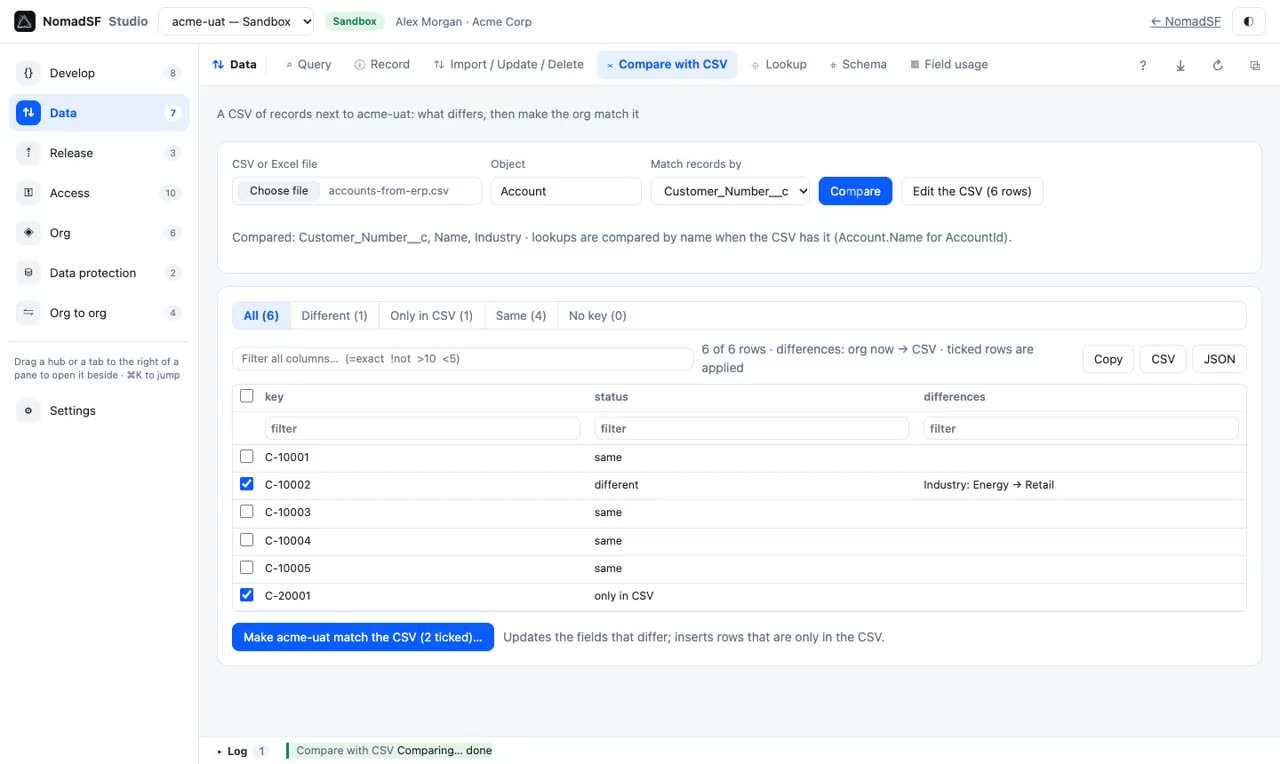
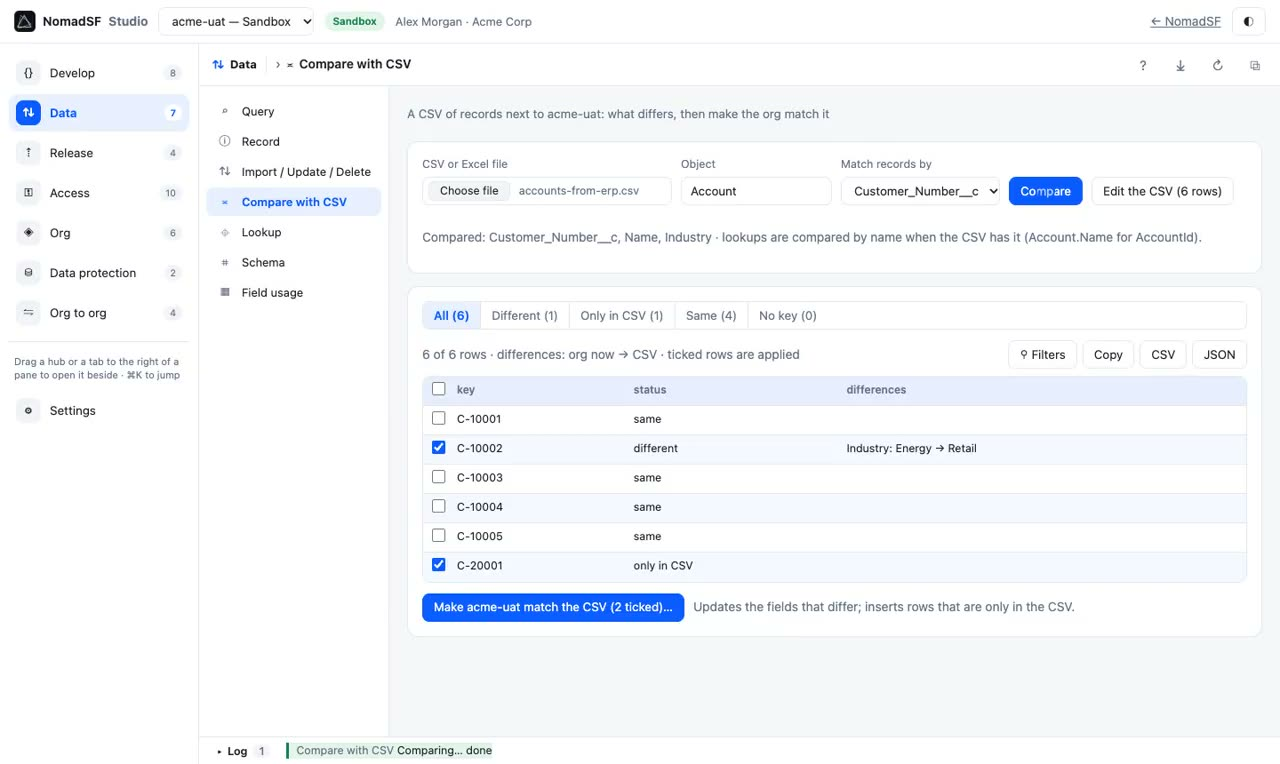
fix(studio): a failed validation says so, and why
The deploy result was read from the first <success> tag, which belongs to a component
in the details: a validation whose tests failed showed "✓ … Failed" and offered Quick
deploy. The deploy's own fields are now read without the details. Code coverage
warnings (a failure with no failed test) are read and shown as their own tab, and the
outcome goes to the Log as one line; progress updates one working line.

diff --git a/nomadsf/packages/ui/src/components/ReleasePanel.tsx b/nomadsf/packages/ui/src/components/ReleasePanel.tsx
@@ -9,7 +9,7 @@ import {
 } from '@nomadsf/core';
 import { StudioContext, type Studio } from '../context';
 import { detectHost, orgFacts } from '../host';
-import { Status } from '../statusLog';
+import { Status, ToolContext, statusLog } from '../statusLog';
 import { askTyped } from './Dialogs';
 import { DataTable, download } from './DataTable';
 import { TableTabs } from './TableTabs';
@@ -125,6 +125,27 @@ export function ReleasePanel(props: ReleasePanelProps) {
 
   const testList = (): string[] => tests.split(/[\s,]+/).filter(Boolean);
 
+  // The outcome is drawn below the buttons; the Log gets it as one line too
+  const tool = useContext(ToolContext);
+  const logOutcome = (result: DeployOutcome, org: string): void => {
+    const failures = result.componentFailures.length + result.testFailures.length + result.coverageWarnings.length;
+    statusLog.add({
+      tool,
+      org,
+      kind: result.success ? 'done' : 'problem',
+      text: `${result.success ? '✓' : '❌'} ${result.checkOnly ? 'Validation' : 'Deploy'} ${result.status} on ${org}${
+        failures
+          ? ` · ${[
+              `${result.componentFailures.length} component error(s)`,
+              `${result.testFailures.length} test failure(s)`,
+              ...result.coverageWarnings.map((w) => `${w.name}: ${w.message}`),
+            ].join(', ')}`
+          : ''
+      }`,
+      source: `release:${result.id}`,
+    });
+  };
+
   const send = async (checkOnly: boolean): Promise<void> => {
     if (!client || !target) return;
     if (level === 'RunSpecifiedTests' && !testList().length) {
@@ -143,7 +164,7 @@ export function ReleasePanel(props: ReleasePanelProps) {
         checkOnly,
         testLevel: level,
         runTests: level === 'RunSpecifiedTests' ? testList() : [],
-        onProgress: (s, done, total) => setStatus(`${checkOnly ? 'Validation' : 'Deploy'} · ${s} · ${done}/${total}`),
+        onProgress: (s, done, total) => setStatus(`${checkOnly ? 'Validation' : 'Deploy'} · ${s} · ${done}/${total}…`),
       });
       studio.logActivity(checkOnly ? 'validate package' : 'deploy package', {
         from,
@@ -154,6 +175,7 @@ export function ReleasePanel(props: ReleasePanelProps) {
       });
       setOutcome(result);
       setStatus('');
+      logOutcome(result, target.label);
       onDone?.(result, target);
     });
   };
@@ -162,7 +184,7 @@ export function ReleasePanel(props: ReleasePanelProps) {
     if (!outcome || !client || !target) return;
     if (!(await confirm(`Quick deploy validation ${outcome.id} to ${target.label}`))) return;
     await run('Quick deploy…', async () => {
-      const result = await quickDeploy(client, outcome.id, { onProgress: (s) => setStatus(`Quick deploy · ${s}`) });
+      const result = await quickDeploy(client, outcome.id, { onProgress: (s) => setStatus(`Quick deploy · ${s}…`) });
       studio.logActivity('quick deploy package', {
         from,
         target: target.label,
@@ -171,6 +193,7 @@ export function ReleasePanel(props: ReleasePanelProps) {
       });
       setOutcome(result);
       setStatus('');
+      logOutcome(result, target.label);
       onDone?.(result, target);
     });
   };
@@ -313,7 +336,9 @@ export function ReleasePanel(props: ReleasePanelProps) {
               </button>
             </div>
           )}
-          {(outcome.componentFailures.length > 0 || outcome.testFailures.length > 0) && (
+          {(outcome.componentFailures.length > 0 ||
+            outcome.testFailures.length > 0 ||
+            outcome.coverageWarnings.length > 0) && (
             <TableTabs
               tabs={[
                 {
@@ -343,8 +368,31 @@ export function ReleasePanel(props: ReleasePanelProps) {
                     />
                   ),
                 },
+                ...(outcome.coverageWarnings.length
+                  ? [
+                      {
+                        id: 'coverage',
+                        label: 'Code coverage',
+                        count: outcome.coverageWarnings.length,
+                        content: (
+                          <DataTable
+                            columns={['name', 'message']}
+                            rows={outcome.coverageWarnings.map((w, i) => ({ ...w, key: i }))}
+                            rowKey="key"
+                            name="coverage-warnings"
+                          />
+                        ),
+                      },
+                    ]
+                  : []),
               ]}
-              initial={outcome.componentFailures.length ? 'components' : 'tests'}
+              initial={
+                outcome.componentFailures.length
+                  ? 'components'
+                  : outcome.testFailures.length || !outcome.coverageWarnings.length
+                  ? 'tests'
+                  : 'coverage'
+              }
             />
           )}
         </div>

diff --git a/nomadsf/packages/core/src/deploy.ts b/nomadsf/packages/core/src/deploy.ts
@@ -31,6 +31,8 @@ export type DeployOutcome = {
   testsRun: number;
   componentFailures: Array<{ type: string; name: string; problem: string; line?: number }>;
   testFailures: Array<{ name: string; method: string; message: string }>;
+  /** Code coverage too low (a validation or deploy fails on it with no failed test). */
+  coverageWarnings: Array<{ name: string; message: string }>;
   errorMessage?: string;
 };
 
@@ -40,14 +42,17 @@ const num = (xml: string, tag: string): number => Number(xmlValue(xml, tag) ?? 0
 export function parseDeployResult(result: string, id: string): DeployOutcome {
   const details = xmlValue(result, 'details') ?? '';
   const runTests = xmlValue(details, 'runTestResult') ?? '';
+  // The deploy's own fields, without the details: each component there has a <success> of its own, and
+  // Salesforce lists the details first (a validation whose tests failed would read as a success)
+  const top = result.replace(/<(?:\w+:)?details(?:\s[^>]*)?>[\s\S]*<\/(?:\w+:)?details>/, '');
   return {
     id,
-    status: xmlValue(result, 'status') ?? 'Unknown',
-    success: xmlValue(result, 'success') === 'true',
-    checkOnly: xmlValue(result, 'checkOnly') === 'true',
-    componentsDeployed: num(result, 'numberComponentsDeployed'),
-    componentsTotal: num(result, 'numberComponentsTotal'),
-    testsRun: num(result, 'numberTestsCompleted') + num(result, 'numberTestErrors'),
+    status: xmlValue(top, 'status') ?? 'Unknown',
+    success: xmlValue(top, 'success') === 'true',
+    checkOnly: xmlValue(top, 'checkOnly') === 'true',
+    componentsDeployed: num(top, 'numberComponentsDeployed'),
+    componentsTotal: num(top, 'numberComponentsTotal'),
+    testsRun: num(top, 'numberTestsCompleted') + num(top, 'numberTestErrors'),
     componentFailures: xmlBlocks(details, 'componentFailures').map((f) => ({
       type: xmlValue(f, 'componentType') ?? '',
       name: xmlValue(f, 'fullName') ?? '',
@@ -59,7 +64,11 @@ export function parseDeployResult(result: string, id: string): DeployOutcome {
       method: xmlValue(f, 'methodName') ?? '',
       message: xmlValue(f, 'message') ?? '',
     })),
-    errorMessage: xmlValue(result, 'errorMessage') || undefined,
+    coverageWarnings: xmlBlocks(runTests, 'codeCoverageWarnings').map((w) => ({
+      name: xmlValue(w, 'name') ?? '',
+      message: xmlValue(w, 'message') ?? '',
+    })),
+    errorMessage: xmlValue(top, 'errorMessage') || undefined,
   };
 }
 

diff --git a/nomadsf/packages/core/test/deploy.test.ts b/nomadsf/packages/core/test/deploy.test.ts
@@ -10,6 +10,7 @@ import {
   deployZip,
   destructiveZip,
   makeZip,
+  parseDeployResult,
   quickDeploy,
   type HttpRequest,
 } from '../src/index.js';
@@ -73,6 +74,28 @@ describe('deploy', () => {
     expect(out.testFailures).toEqual([{ name: 'FooTest', method: 't1', message: 'boom' }]);
     expect(progress[0]).toBe('Failed 4/4');
     await expect(deployZip(client, 'x', { testLevel: 'RunSpecifiedTests' })).rejects.toThrow('test classes');
+  });
+
+  it("reads the deploy's own success, not a component's (Salesforce lists the details first)", () => {
+    const failedTests = `<checkOnly>true</checkOnly><details><componentSuccesses><fullName>InvoiceTrigger</fullName><success>true</success></componentSuccesses>
+<runTestResult><codeCoverageWarnings><id>01q1</id><message>Test coverage of selected Apex Trigger is 0%, at least 1% test coverage is required</message><name>OpportunityTrigger</name></codeCoverageWarnings>
+<failures><name>InvoiceServiceTest</name><methodName>t1</methodName><message>Expected: 1, Actual: 0</message></failures></runTestResult></details>
+<done>true</done><numberComponentsDeployed>1</numberComponentsDeployed><numberComponentsTotal>1</numberComponentsTotal><numberTestErrors>1</numberTestErrors>
+<numberTestsCompleted>6</numberTestsCompleted><status>Failed</status><success>false</success>`;
+    expect(parseDeployResult(failedTests, '0AfX')).toMatchObject({
+      success: false,
+      status: 'Failed',
+      checkOnly: true,
+      componentsDeployed: 1,
+      testsRun: 7,
+      testFailures: [{ name: 'InvoiceServiceTest', method: 't1', message: 'Expected: 1, Actual: 0' }],
+      coverageWarnings: [
+        {
+          name: 'OpportunityTrigger',
+          message: 'Test coverage of selected Apex Trigger is 0%, at least 1% test coverage is required',
+        },
+      ],
+    });
   });
 
   it('deletes with an empty package plus destructiveChanges.xml', async () => {
